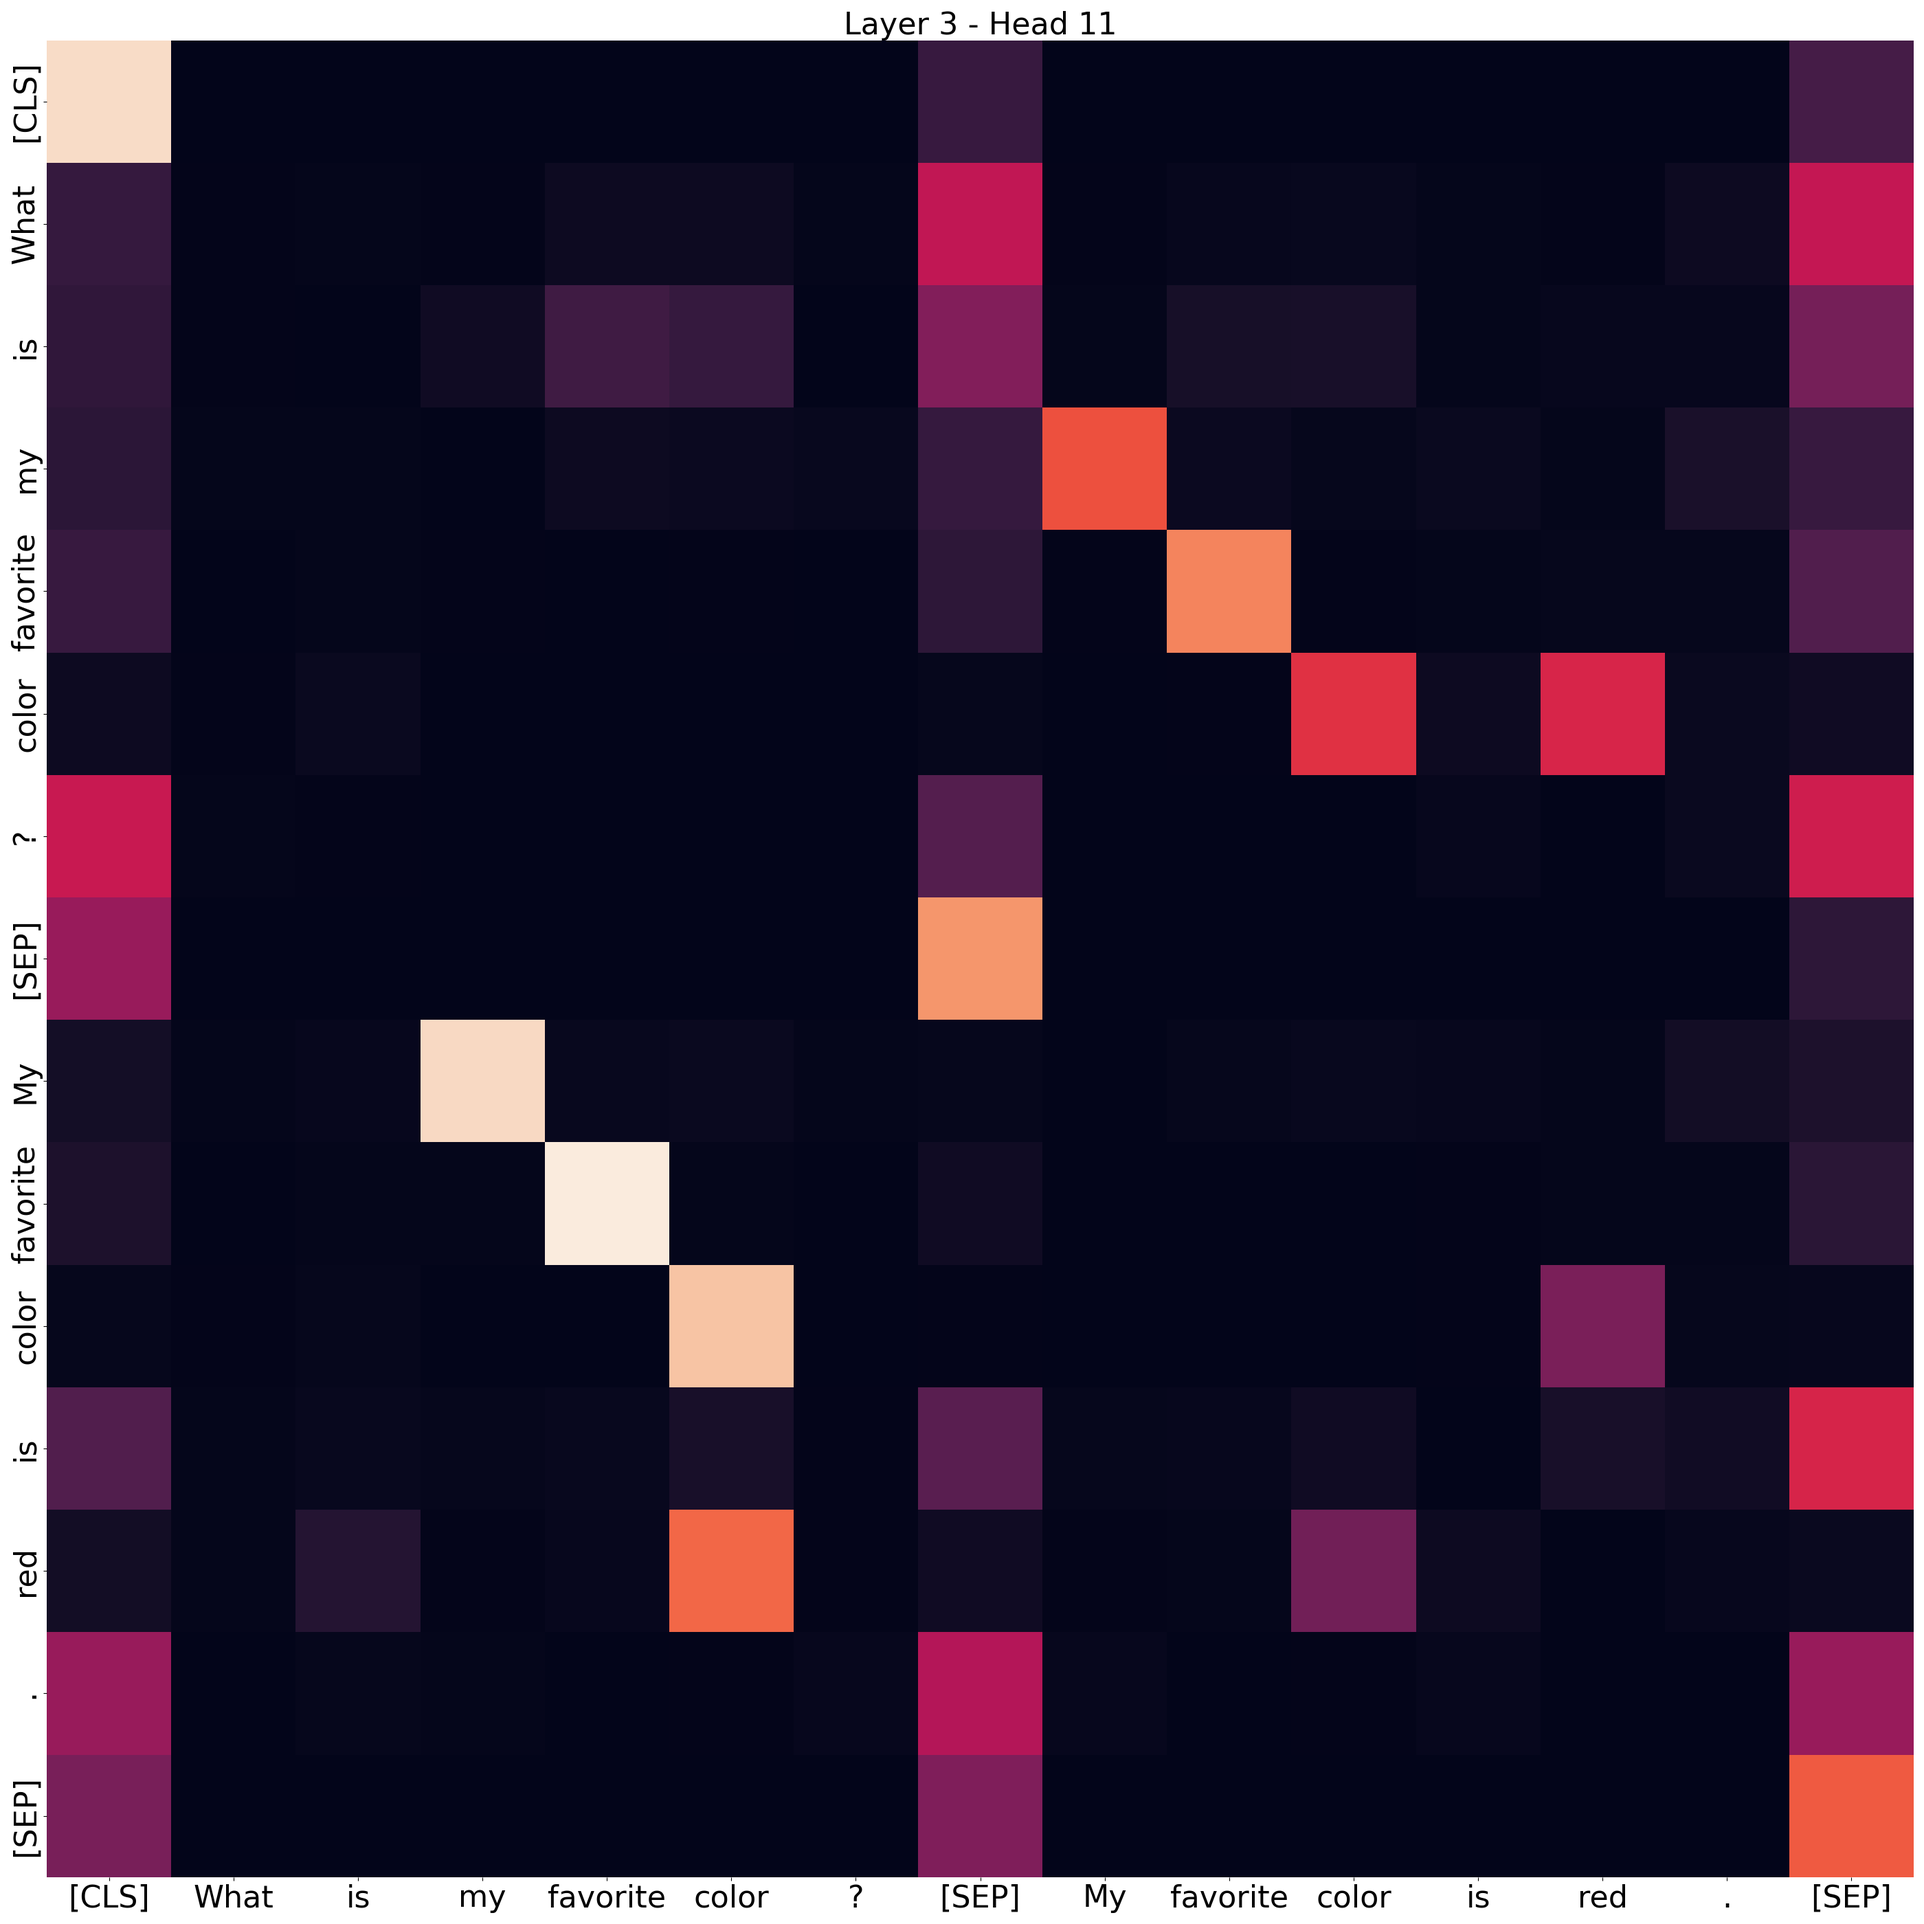
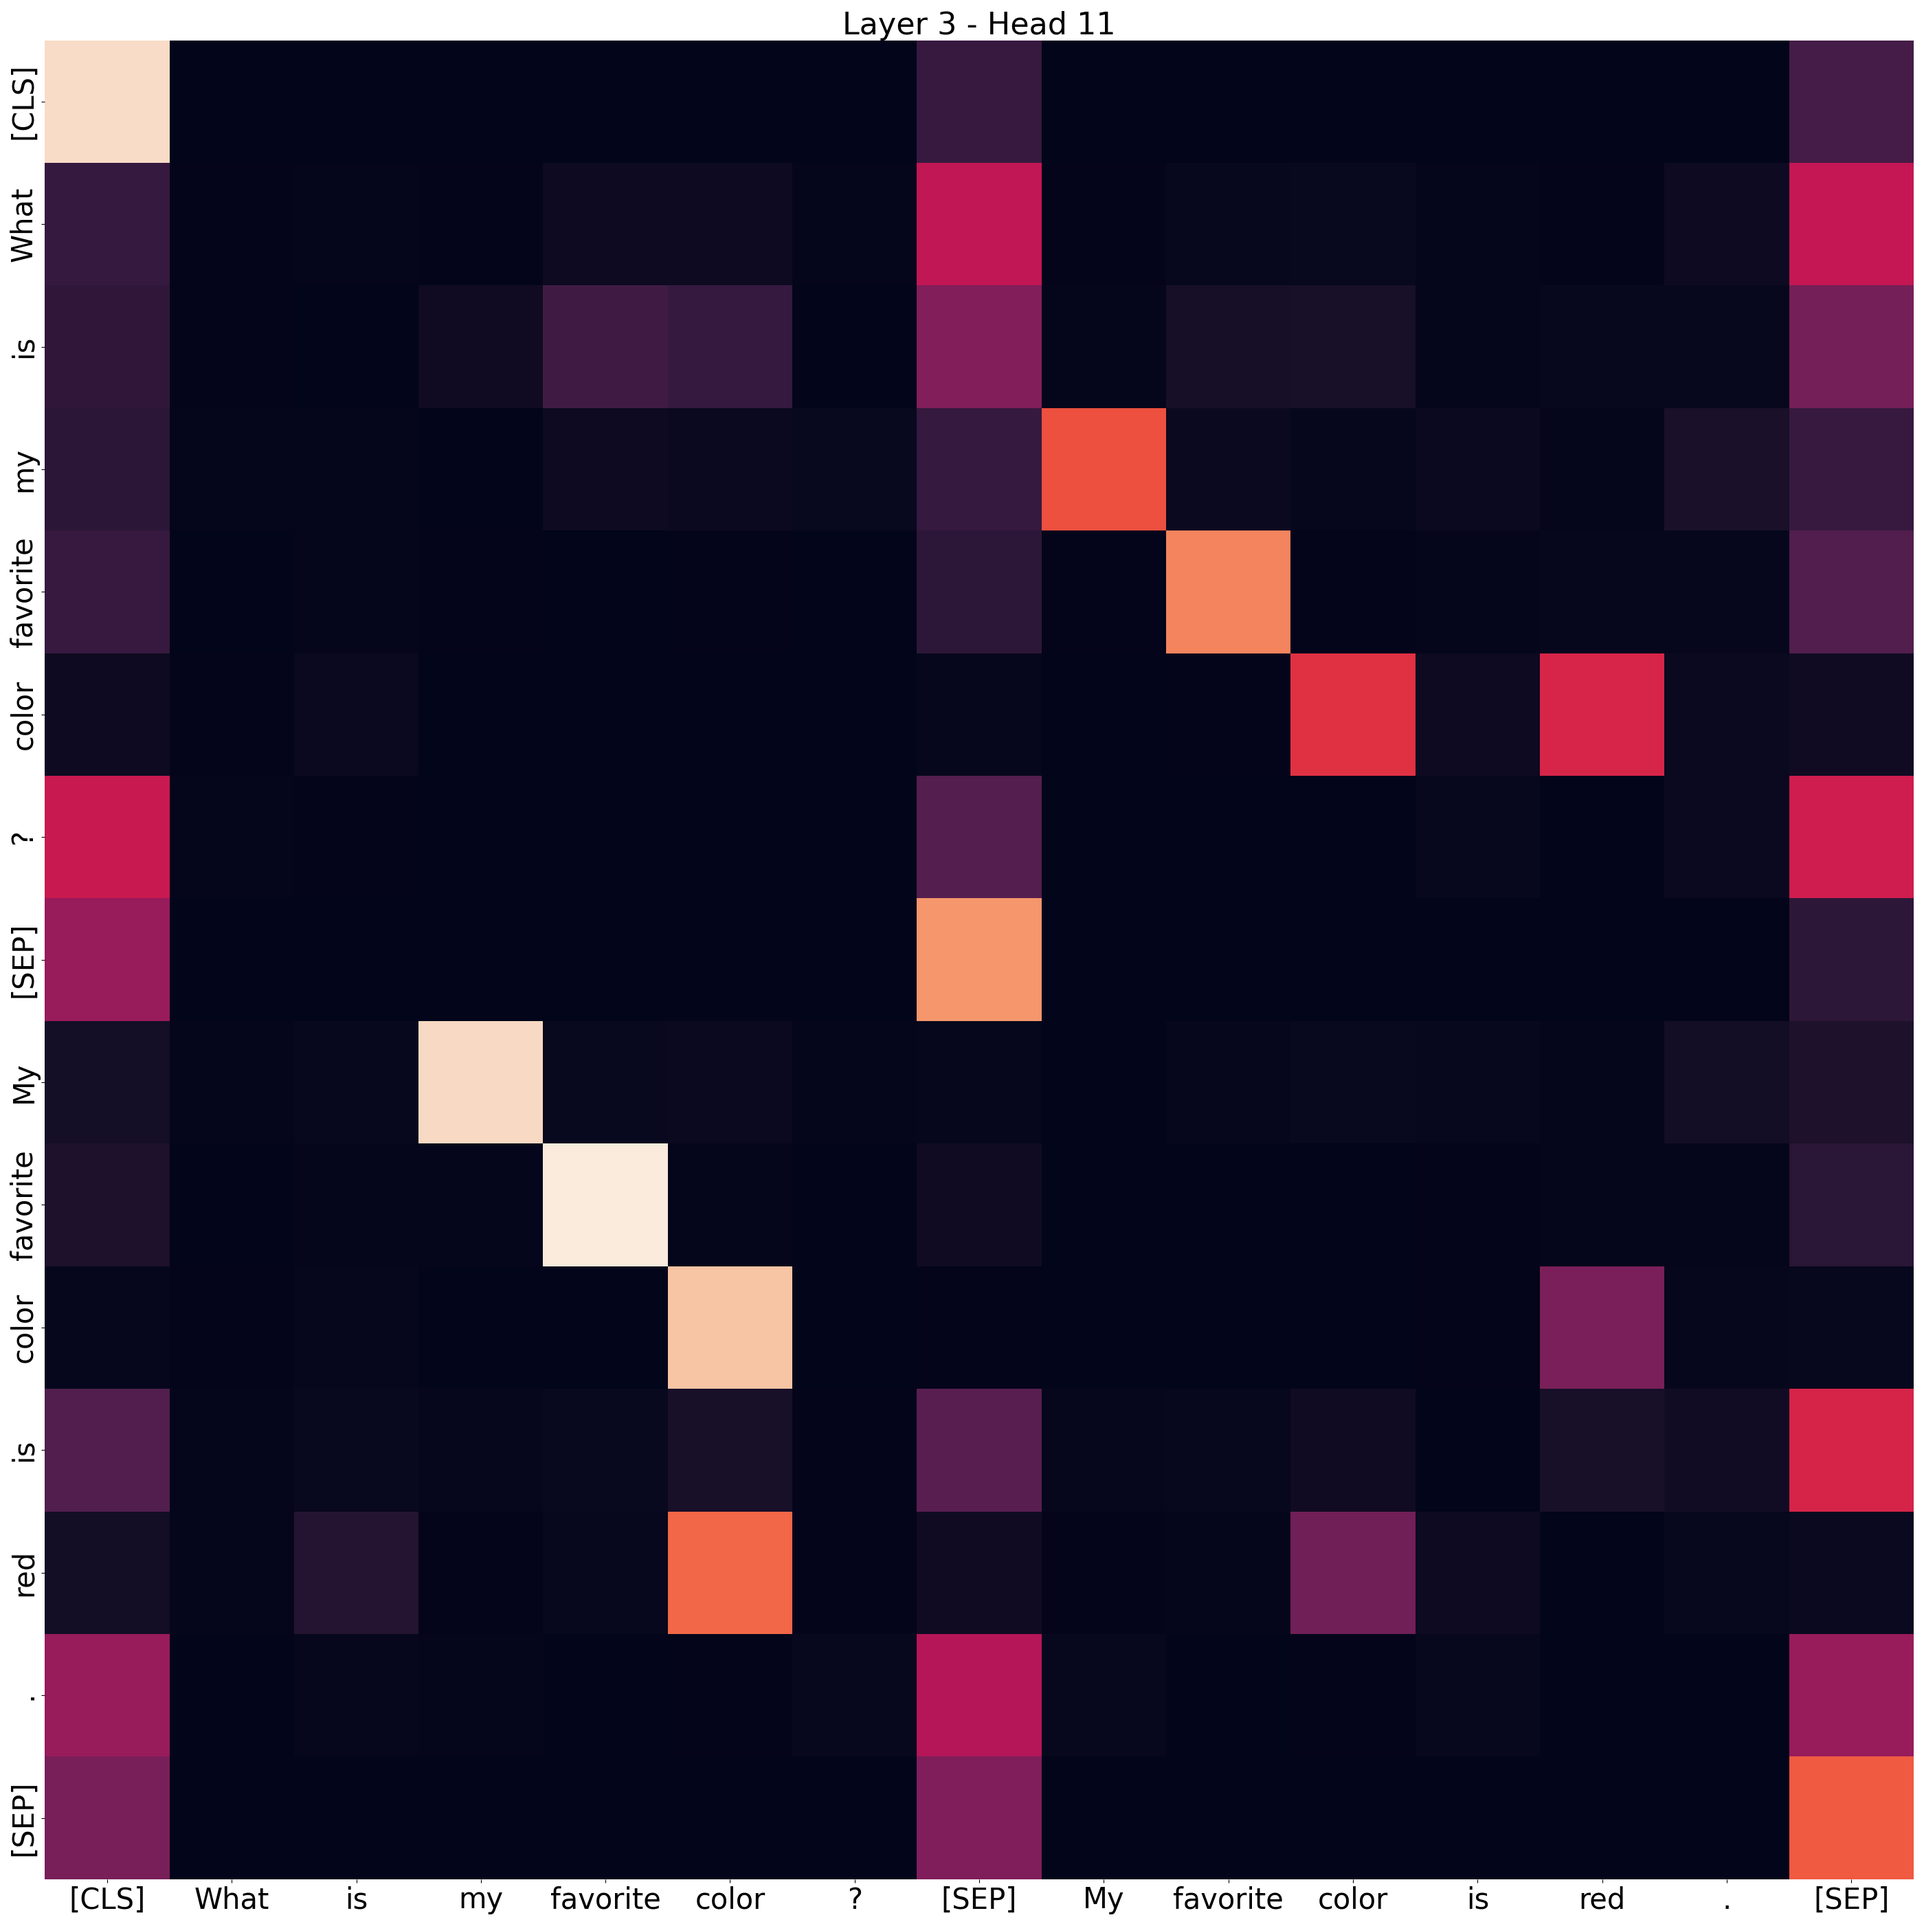
reduced font size in figures

diff --git a/src/attention_analysis.py b/src/attention_analysis.py
@@ -78,8 +78,8 @@ def visualize_single_attention_head(attentions, tokens, layer_num, head_num, sav
     sns.heatmap(attention_head, xticklabels=tokens, yticklabels=tokens, ax=ax, cbar=False)
     ax.set_title(f'Layer {layer_num} - Head {head_num}', fontsize=32)
 
-    ax.tick_params(axis='x', labelsize=32)
-    ax.tick_params(axis='y', labelsize=32)
+    ax.tick_params(axis='x', labelsize=30)
+    ax.tick_params(axis='y', labelsize=30)
     
     file_path = os.path.join(save_dir, f'layer_{layer_num}_head_{head_num}.png')
     plt.tight_layout()
